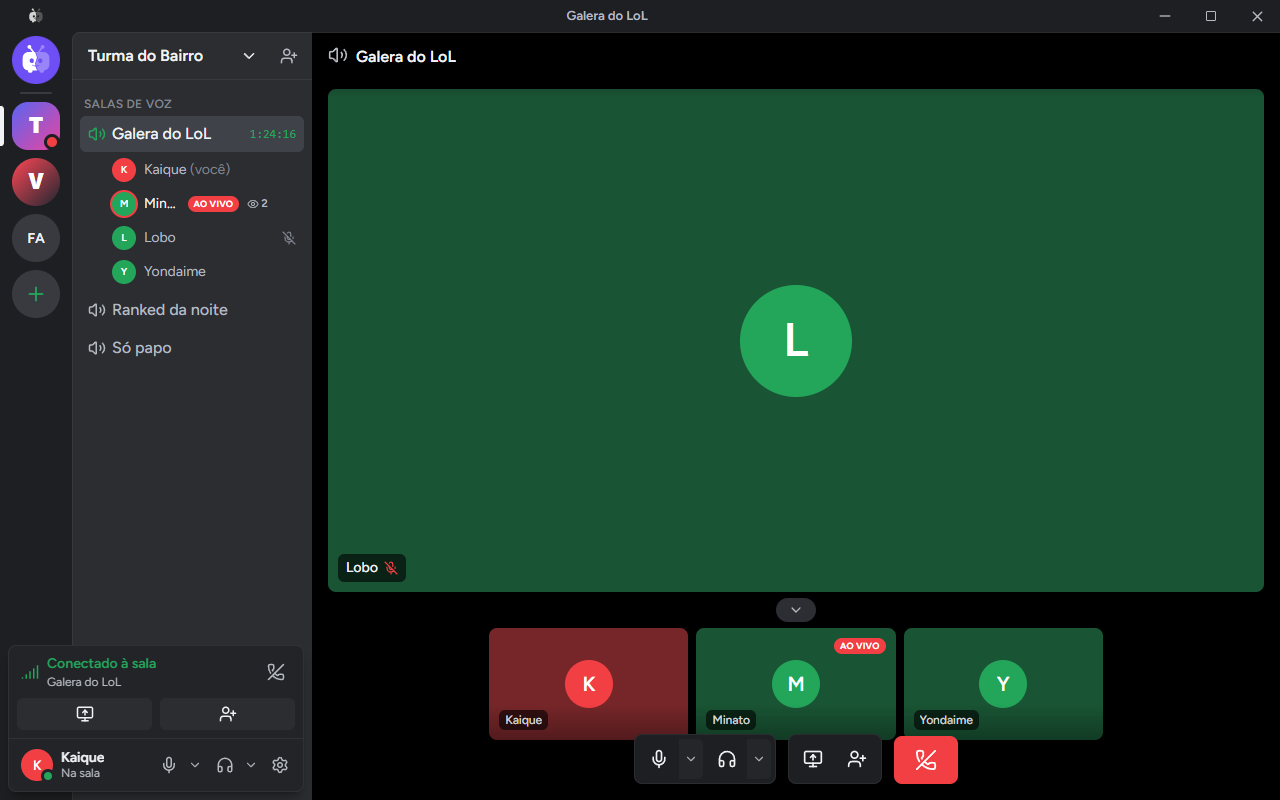
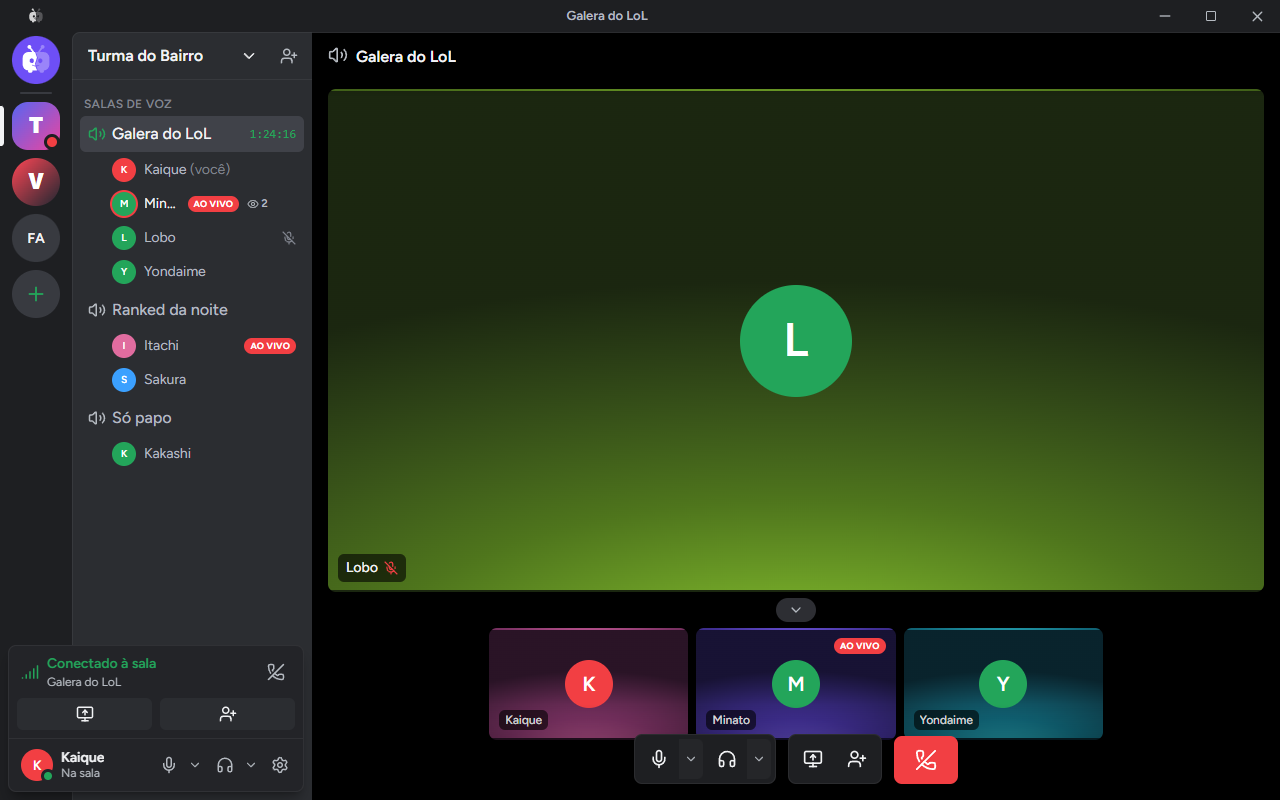
docs: README e site da versão 0.8
Textos da 0.8 (quem está em cada sala do servidor, entrada direta para membros, fundos em degradê, menu do servidor no botão direito e mensagens que vão sozinhas, também no resumo em inglês) e capturas refeitas: o servidor com gente nas salas e os quadros em degradê.

diff --git a/apps/desktop/src/dev/demo.ts b/apps/desktop/src/dev/demo.ts
@@ -99,7 +99,12 @@ const SERVERS = [
       { id: "r2", name: "Ranked da noite", code: "K7M2Q4" },
       { id: "r3", name: "Só papo", code: "P3X8W1" },
     ],
-    members: [{ id: "eu", name: "Kaique", avatar: null, role: "owner" as const }],
+    members: [
+      { id: "eu", name: "Kaique", avatar: null, role: "owner" as const },
+      { id: "100000000000000004", name: "Itachi", avatar: null, role: "admin" as const },
+      { id: "100000000000000003", name: "Sakura", avatar: null, role: "member" as const },
+      { id: "100000000000000005", name: "Kakashi", avatar: null, role: "member" as const },
+    ],
   },
   { id: "s2", name: "Valorant BR", icon: serverIcon("#ff4655", "#1f2731", "V"), rooms: [], members: [] },
   { id: "s3", name: "Faculdade", icon: null, rooms: [], members: [] },
@@ -254,7 +259,21 @@ export function runDemo(scene: string) {
       online: { "100000000000000001": true },
     });
   }
-  if (scene === "servidor") useServersStore.setState({ servers: SERVERS, selected: "s1" });
+  if (scene === "servidor")
+    useServersStore.setState({
+      servers: SERVERS,
+      selected: "s1",
+      // Gente nas outras salas do servidor, mesmo com a gente fora delas (ADR 0018).
+      presence: {
+        s1: {
+          r2: [
+            { id: "100000000000000004", live: true },
+            { id: "100000000000000003", live: false },
+          ],
+          r3: [{ id: "100000000000000005", live: false }],
+        },
+      },
+    });
   if (scene === "transmitindo" || scene === "detalhes") goLive();
   // Espera a interface montar antes de abrir os modais.
   setTimeout(() => {

diff --git a/site/index.html b/site/index.html
@@ -256,7 +256,7 @@
 
       <main>
         <div class="hero">
-          <span class="pill"><b>NOVO</b> Versão 0.7.0: a sua live dentro da sala</span>
+          <span class="pill"><b>NOVO</b> Versão 0.8.0: quem está em cada sala do servidor</span>
           <h1>Compartilhe a tela do jogo com a galera da call</h1>
           <p class="lead">
             Até 1440p60, com baixa latência e quase sem pesar no jogo. O vídeo e a voz vão direto de um PC para o outro,

diff --git a/README.md b/README.md
@@ -35,7 +35,7 @@
 </p>
 
 > [!NOTE]
-> **Versão 0.7: a sua live dentro da sala, como no Discord.** Transmitindo, a sua tela vira um quadro da sala, com a qualidade e o AO VIVO no canto: clique para pôr em foco e use o botão direito para parar, trocar o que transmite, mudar a qualidade ou ligar o som, sem sair do ar. Os detalhes da live ganharam gráficos do último minuto e barras de uso da GPU e da CPU. Também chegaram o checkbox e as abas animadas, efeitos de fala que se misturam quando duas pessoas falam juntas e o ícone do servidor voltou a abrir a imagem. A sala inteira distribuindo o vídeo (salas sem limite) chega na [Fase 3](docs/roadmap.md). Achou um problema? [Abra uma issue](https://github.com/Kaique292/squadview/issues).
+> **Versão 0.8: veja quem está em cada sala do servidor.** A lateral do servidor mostra quem está em cada sala (e quem está ao vivo), mesmo com você fora dela, e quem é do servidor entra direto, sem pedir permissão. Os quadros da sala ganharam fundos em degradê, um por pessoa, o botão direito no ícone do servidor abre o menu dele e as mensagens que estavam esperando vão sozinhas quando o amigo aparece. Também corrigimos os menus por cima da live (sem moldura preta) e os controles que ficavam presos na tela. A sala inteira distribuindo o vídeo (salas sem limite) chega na [Fase 3](docs/roadmap.md). Achou um problema? [Abra uma issue](https://github.com/Kaique292/squadview/issues).
 
 ## ✨ O que ele faz
 
@@ -48,9 +48,9 @@
 - **A sua live na sala**, como no Discord: transmitindo, a sua tela vira um quadro da sala, com a qualidade e o AO VIVO no canto. Clique para pôr em foco, dois cliques para a tela cheia e o botão direito para parar, trocar o que transmite, mudar a qualidade ou ligar e desligar o som, sem sair do ar. Os detalhes mostram o último minuto em gráficos (fps, bitrate, latência e encode) e o uso da GPU e da CPU em barras.
 - **Assista dentro do app**, como no Discord: o vídeo aparece na janela, com tela cheia, volume de até 200% e estatísticas (fps, bitrate, latência e ping). Quem transmite vê quantos e quem estão assistindo. Quer jogar enquanto assiste? Mande a live para uma **janelinha por cima de tudo** (picture in picture).
 - **Funciona atrás de CGNAT.** Se a conexão direta não fecha (internet da operadora, 4G), o app tenta por IPv6 e, se ainda não der, recebe o vídeo por alguém da sala que já está assistindo. Há também um repassador na nuvem pronto para ligar ([ADR 0014](docs/adr/0014-conexao-em-camadas.md)).
-- **Chat de voz na sala.** A sala é um canal de voz como o do Discord: um quadro por pessoa, borda verde (ou o efeito que você escolher, com a cor que quiser; quando duas pessoas falam lado a lado, as cores se misturam onde os efeitos se tocam) em quem fala, mudo e surdo, e clique num quadro para pôr a pessoa em foco. Volume e silenciar por pessoa (só para você), isolamento de voz contra teclado e ventilador e controle automático de ganho, para todo mundo chegar no mesmo volume. A voz também vai direto de PC para PC.
+- **Chat de voz na sala.** A sala é um canal de voz como o do Discord: um quadro por pessoa, cada um com o seu fundo em degradê, borda verde (ou o efeito que você escolher, com a cor que quiser; quando duas pessoas falam lado a lado, as cores se misturam onde os efeitos se tocam) em quem fala, mudo e surdo, e clique num quadro para pôr a pessoa em foco. Volume e silenciar por pessoa (só para você), isolamento de voz contra teclado e ventilador e controle automático de ganho, para todo mundo chegar no mesmo volume. A voz também vai direto de PC para PC.
 - **Amigos.** Veja quem está online, numa sala ou transmitindo. Peça para entrar na sala de um amigo (qualquer pessoa da sala aceita), chame amigos para a sua e marque quem entra direto. Adicione direto pelo botão direito em quem está na sala com você, ou depois, em Recentes.
-- **Servidores com salas fixas.** Crie um servidor para a turma, com salas de voz que ficam lá mesmo vazias. Chame a galera por um link de convite, escolha administradores e dê um ícone ao servidor, ajustando o recorte, a posição e o zoom.
+- **Servidores com salas fixas.** Crie um servidor para a turma, com salas de voz que ficam lá mesmo vazias. A lateral mostra quem está em cada sala e quem está ao vivo, mesmo com você fora dela, e quem é do servidor entra direto, sem pedir permissão. Chame a galera por um link de convite, escolha administradores e dê um ícone ao servidor, ajustando o recorte, a posição e o zoom. O botão direito no ícone do servidor abre o menu dele.
 - **Conversas privadas.** Mande mensagens, fotos, vídeos e arquivos para um amigo, direto de PC para PC: nem o texto passa por servidor, e o histórico fica só no seu PC. Fotos pequenas aparecem sozinhas; arquivos grandes e vídeos esperam você clicar em Baixar. O que você mandar com o amigo offline fica esperando e vai quando ele aparecer.
 - **Salas rápidas com nome e código.** Dê um nome à sala e mande o **link de convite**: quem tem o app entra direto, quem não tem cai na página de download.
 - **Integração com o Discord.** Entre com a sua conta: seu nome e sua foto aparecem para toda a sala. Mostre no seu perfil do Discord que está numa sala, transmitindo ou assistindo, com o botão "Entrar na sala" se quiser.
@@ -236,7 +236,7 @@ As miniaturas das janelas usam o crate `jpeg-encoder`: _this software is based i
 
 There is **no media server**: video goes directly between PCs over QUIC, with UDP hole punching. The plan (Phase 3) is for the room itself to distribute the video: members with spare upload relay already-encoded packets, and members on weak connections get a 720p layer. A tiny free signaling service (Cloudflare Worker) only helps peers find each other; no video goes through it.
 
-- **Status:** version 0.7. One friend streams and the rest of the room watches inside the app, directly PC to PC (NVIDIA and AMD), with a live viewer count. Members behind CGNAT connect over IPv6 or get the stream relayed by someone already watching; an optional cloud TURN relay is ready to turn on. The room is a Discord-like voice channel (peer-to-peer Opus voice with noise suppression), with friends, presence, "ask to join" requests, custom speaking effects that blend where they touch, picture-in-picture, notification sounds and a system tray icon. Servers with persistent voice rooms, invites, roles and cropped icons; private peer-to-peer messages with files (no server in between, history kept locally). Discord login, invite links, Rich Presence and a silent Discord-style installer. Your own stream shows up as a tile in the room (Discord-style), with a right-click menu to stop, switch source, change quality or toggle audio without going offline, and a details view with live charts. Full room-wide relaying (mesh) is Phase 3. See the [roadmap](docs/roadmap.md).
+- **Status:** version 0.8. One friend streams and the rest of the room watches inside the app, directly PC to PC (NVIDIA and AMD), with a live viewer count. Members behind CGNAT connect over IPv6 or get the stream relayed by someone already watching; an optional cloud TURN relay is ready to turn on. The room is a Discord-like voice channel (peer-to-peer Opus voice with noise suppression), with friends, presence, "ask to join" requests, custom speaking effects that blend where they touch, picture-in-picture, notification sounds and a system tray icon. Servers with persistent voice rooms (showing who is in each room, with members joining directly), invites, roles and cropped icons; private peer-to-peer messages with files (no server in between, history kept locally). Discord login, invite links, Rich Presence and a silent Discord-style installer. Your own stream shows up as a tile in the room (Discord-style), with a right-click menu to stop, switch source, change quality or toggle audio without going offline, and a details view with live charts. Full room-wide relaying (mesh) is Phase 3. See the [roadmap](docs/roadmap.md).
 - **Stack:** Rust core, Tauri v2, React 19 + Tailwind v4, QUIC (quinn) peer-to-peer mesh, Cloudflare Worker for signaling.
 - **Contributing:** PRs target the `dev` branch and use [Conventional Commits](https://www.conventionalcommits.org/). Docs are in Portuguese; issues and PRs in English are welcome too.
 - **Support:** [Buy Me a Coffee](https://buymeacoffee.com/kaiqueamaral).
